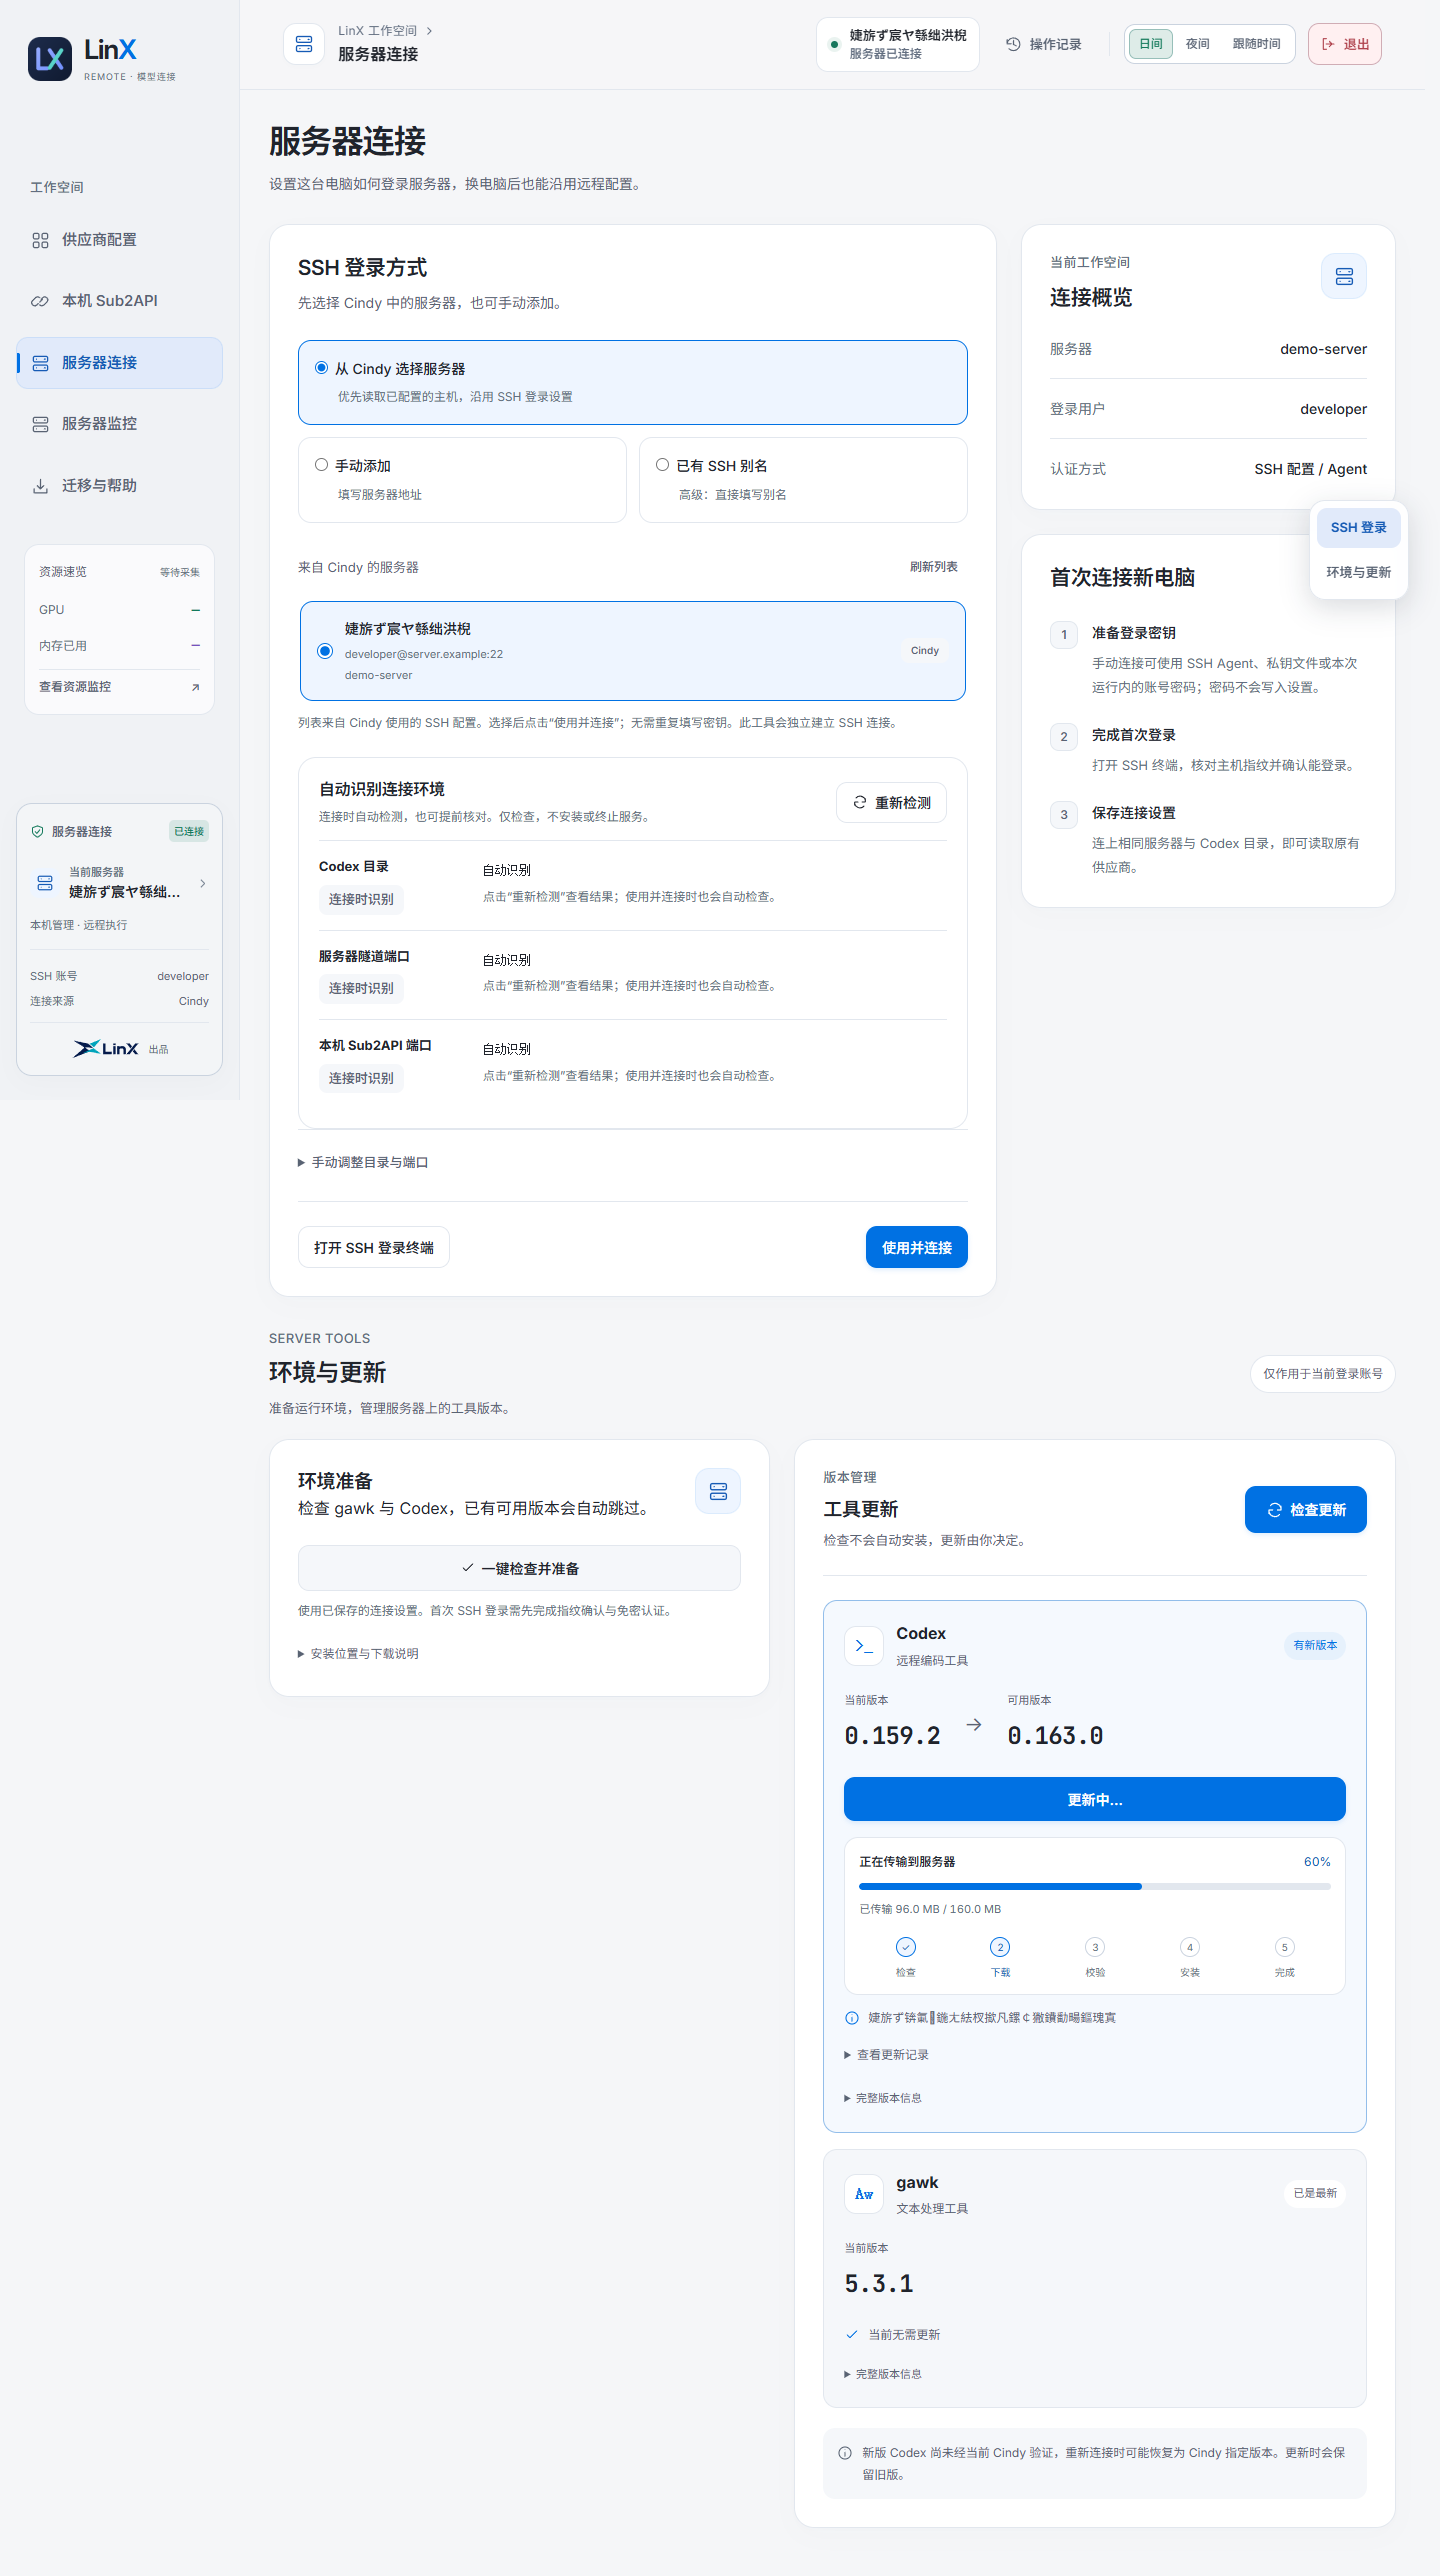
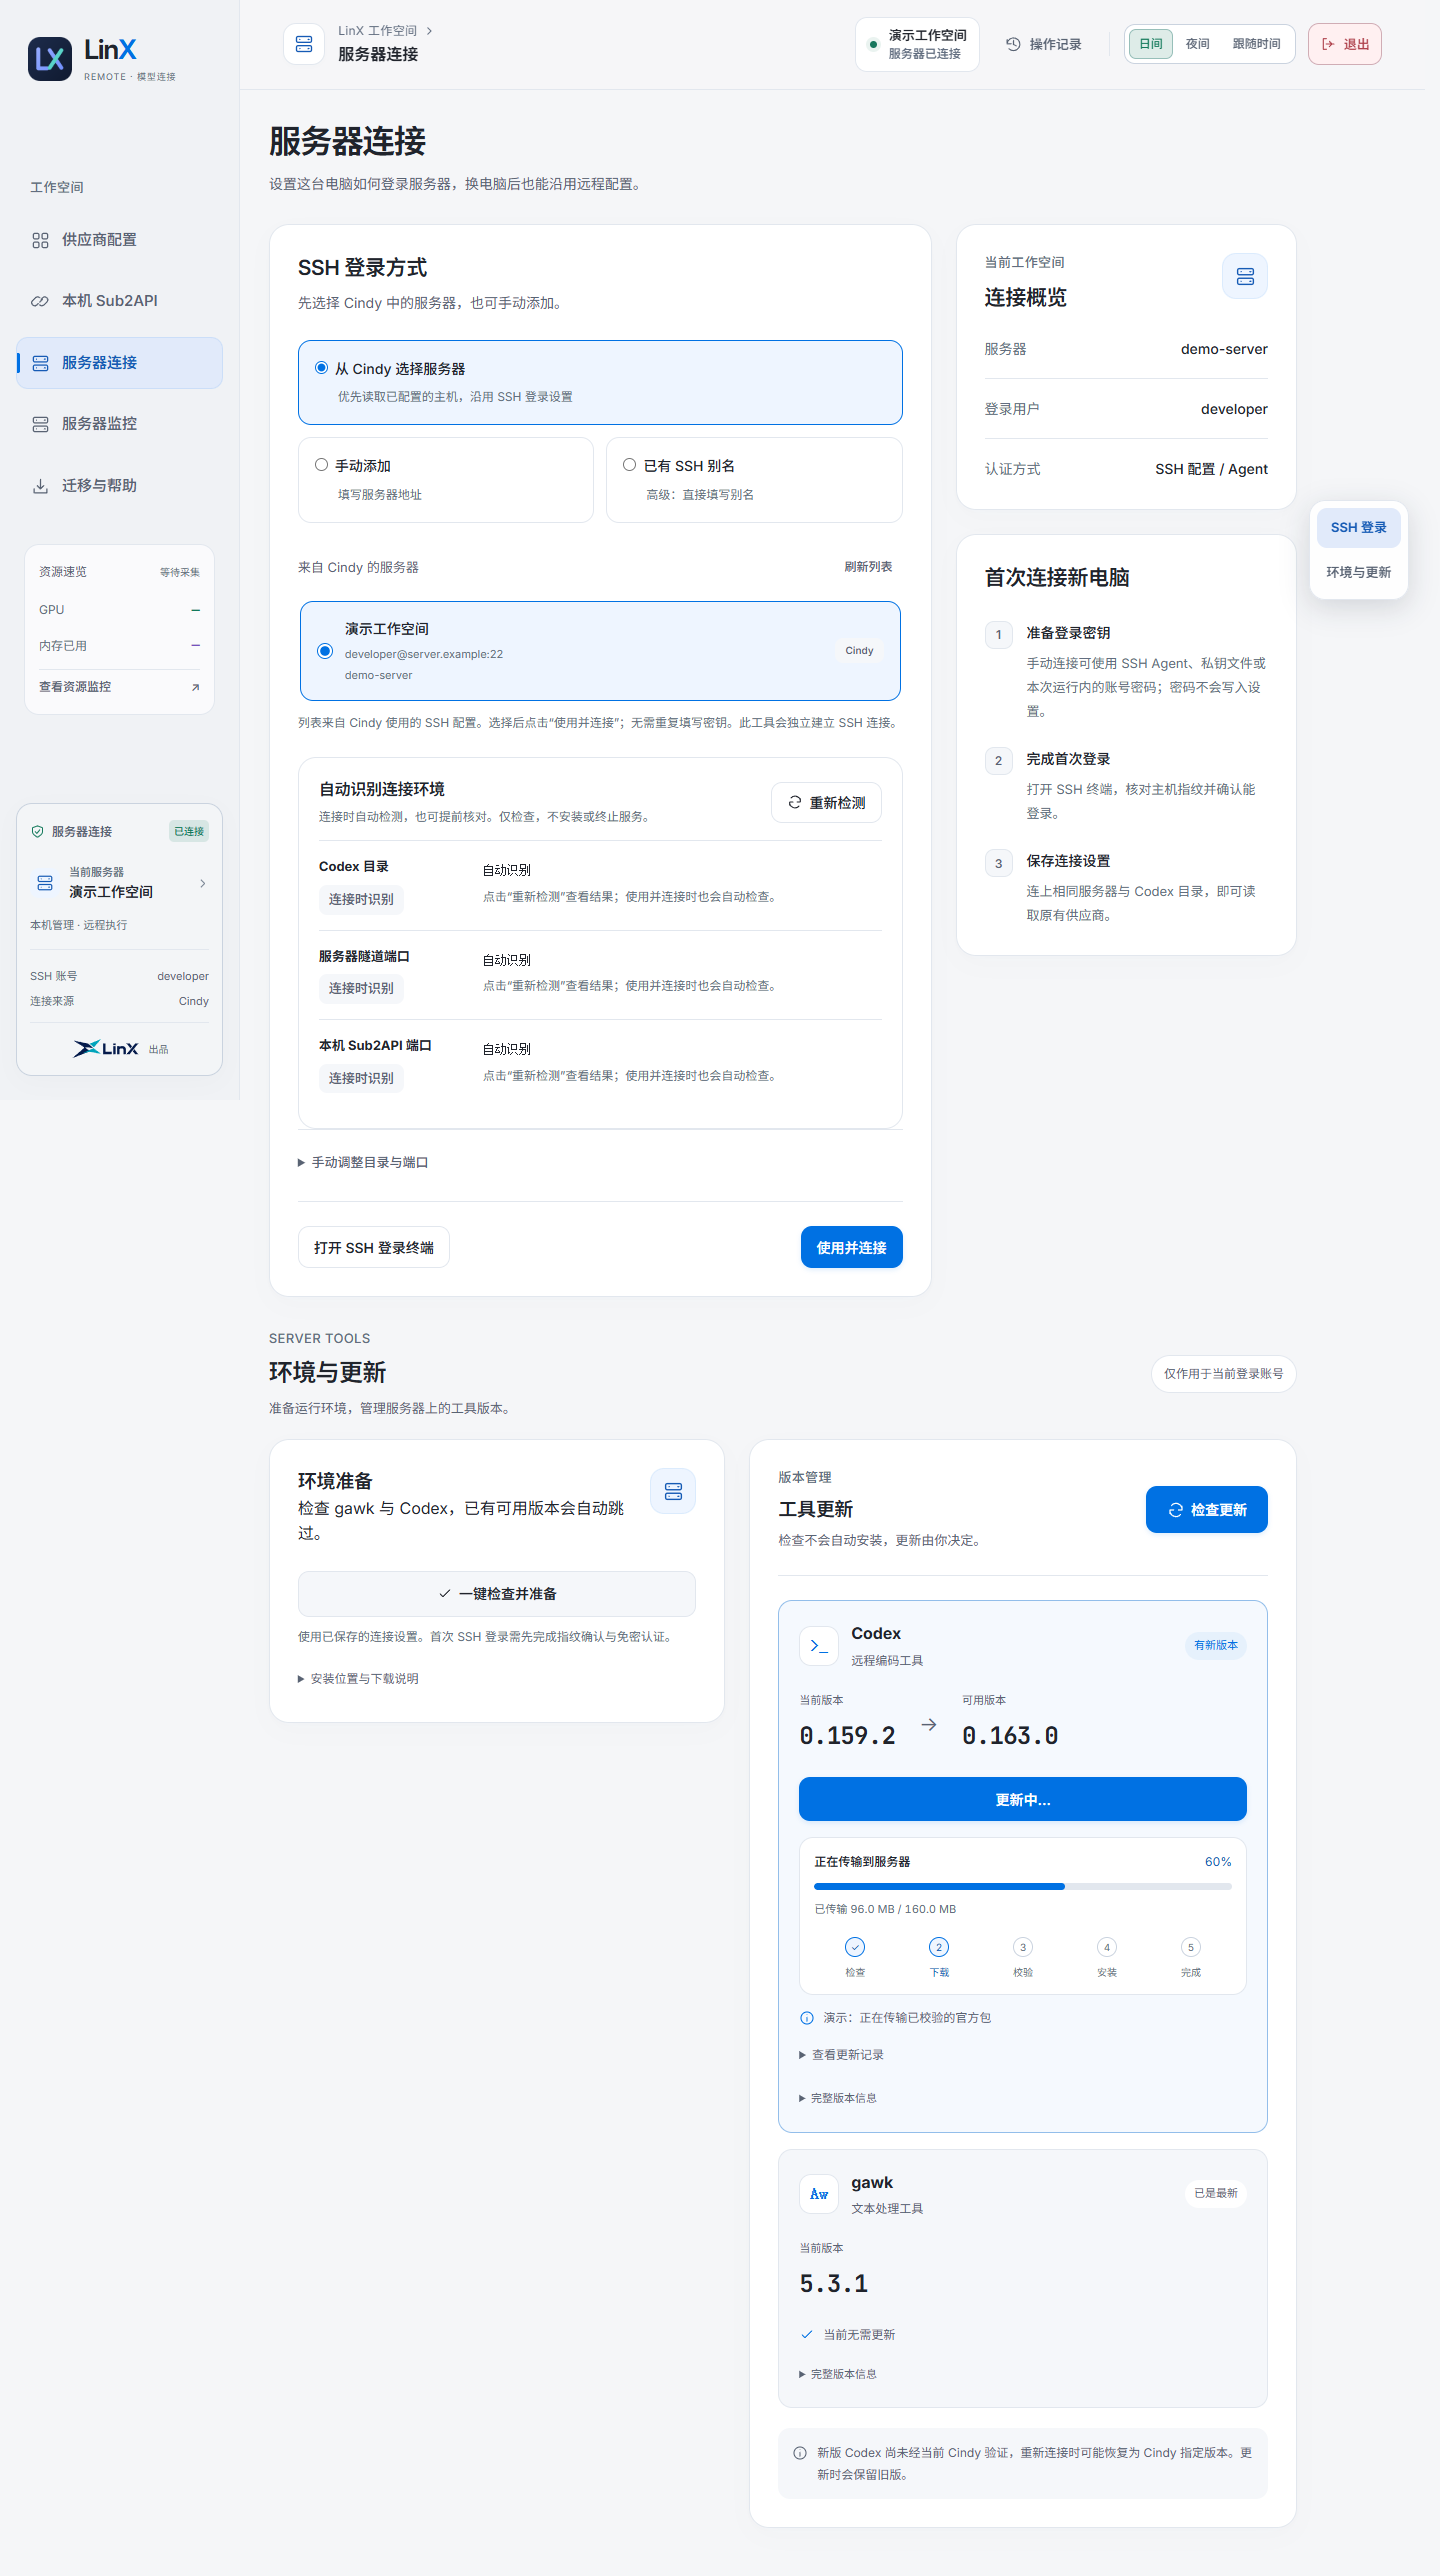
Fix demo text, navigation spacing and platform checks
Assisted-by: Cindy (https://cindy.app)

diff --git a/manager_ui.html b/manager_ui.html
@@ -260,7 +260,7 @@ html[data-theme=dark] .linx-maker-lockup .linx-maker-white{display:block}
 :root{--text-xs:13px;--text-sm:14px;--text-base:16px;--text-lg:18px;--text-section:21px;--metric-blue:#126ac4;--metric-purple:#7651bd;--metric-green:#13795b;--metric-warn:#9a620b;--metric-danger:#c43849}
 html[data-theme=dark]{--metric-blue:#72b5ff;--metric-purple:#c2a0ff;--metric-green:#62d5b0;--metric-warn:#f1c36c;--metric-danger:#ff8b98}
 .content{max-width:none;margin:0;padding:32px clamp(24px,2vw,40px) 48px}
-.content:has(.monitor-page){padding-right:128px}
+.content:has(.section-rail){padding-right:128px}
 .section-rail{width:100px;right:16px;padding:7px}
 .section-rail button{padding:10px 7px;font-size:13px}
 body{font-size:16px}.nav button{font-size:15px}.navlabel{font-size:13px}
@@ -283,10 +283,10 @@ button,.field input,.field select{font-size:14px}.field small,.notice,.info-list
 .monitor-bar i[data-level=warning]{background:var(--metric-warn)}
 .monitor-bar i[data-level=critical]{background:var(--metric-danger)}
 .activefacts>div:nth-child(1) dd{color:var(--metric-blue)}.activefacts>div:nth-child(2) dd{color:var(--metric-purple)}
-@media(max-width:1180px){.content{padding:28px 24px 40px}.content:has(.monitor-page){padding-right:116px}.section-rail{right:10px;width:94px}.monitor-summary b{font-size:23px}}
+@media(max-width:1180px){.content{padding:28px 24px 40px}.content:has(.section-rail){padding-right:116px}.section-rail{right:10px;width:94px}.monitor-summary b{font-size:23px}}
 @media(max-width:980px){.nav button{font-size:14px}.monitor-summary{gap:12px}.monitor-summary article{padding:18px 16px}.monitor-summary b{font-size:21px}}
-@media(max-width:640px){body{font-size:15px}.content,.content:has(.monitor-page){padding:24px 18px 90px}.nav button{font-size:12px}.heading h1{font-size:28px}.heading p{font-size:14px}.section-rail{width:auto;right:10px;left:10px}.section-rail button{font-size:13px;padding:9px 12px}.monitor-summary b{font-size:25px}.monitor-table-scroll table{font-size:13px}.monitor-table-scroll th{font-size:12px}.topbar .connection{padding:7px 8px;gap:7px}.topbar #header-server{font-size:12px}.topbar #connectiontext{font-size:11px}}
-@media(max-width:360px){.content,.content:has(.monitor-page){padding-left:14px;padding-right:14px}.topbar .header-tools{gap:5px}.topbar .header-action{width:30px;padding:6px}}
+@media(max-width:640px){body{font-size:15px}.content,.content:has(.section-rail){padding:24px 18px 90px}.nav button{font-size:12px}.heading h1{font-size:28px}.heading p{font-size:14px}.section-rail{width:auto;right:10px;left:10px}.section-rail button{font-size:13px;padding:9px 12px}.monitor-summary b{font-size:25px}.monitor-table-scroll table{font-size:13px}.monitor-table-scroll th{font-size:12px}.topbar .connection{padding:7px 8px;gap:7px}.topbar #header-server{font-size:12px}.topbar #connectiontext{font-size:11px}}
+@media(max-width:360px){.content,.content:has(.section-rail){padding-left:14px;padding-right:14px}.topbar .header-tools{gap:5px}.topbar .header-action{width:30px;padding:6px}}
 
 /* Balanced sidebar, grouped theme selection and clear resource identities. */
 .sidebar{padding-top:34px;padding-bottom:24px}

diff --git a/tools/screenshots.py b/tools/screenshots.py
@@ -11,12 +11,12 @@ import manager
 MODELS = ['gpt-5.4', 'gpt-5.4-mini', 'gpt-5.3-codex', 'deepseek-v3.2', 'deepseek-reasoner', 'custom-research-model']
 SETTINGS = dict(manager.DEFAULT, alias='demo-server', user='developer',
                 cindy_host='demo-server', home='/home/developer/.xdt-server/v1/codex-home')
-HOSTS = {'hosts':[{'id':'demo-server', 'name':'婕旂ず宸ヤ綔绌洪棿', 'hostname':'server.example',
+HOSTS = {'hosts':[{'id':'demo-server', 'name':'演示工作空间', 'hostname':'server.example',
                    'user':'developer', 'port':22, 'managed_by_cindy':True}], 'warnings':[]}
 PROFILES = [
     dict(id='demo-direct', name='Demo Relay', mode='direct', base_url='https://api.example/v1',
          model=MODELS[0], selected_models=MODELS, has_key=True, context_window=262144, context_windows={m:262144 for m in MODELS}),
-    dict(id='demo-tunnel', name='鏈満 Sub2API', mode='tunnel', base_url='http://127.0.0.1:18765/v1',
+    dict(id='demo-tunnel', name='本机 Sub2API', mode='tunnel', base_url='http://127.0.0.1:18765/v1',
          model=MODELS[0], selected_models=MODELS[:3], has_key=True, context_window=262144, context_windows={m:262144 for m in MODELS[:3]}),
 ]
 UPDATES = dict(state='done', items=[
@@ -111,12 +111,15 @@ def main():
         page.wait_for_function('S.loaded && !S.busy')
         page.evaluate('clearToast()')
         page.evaluate('document.fonts.ready')
+        assert page.locator('#header-server').inner_text() == '演示工作空间'
+        assert page.locator('#servermini').inner_text() == '演示工作空间'
+        assert '本机 Sub2API' in page.locator('#content').inner_text()
         for mode in ('light', 'dark'):
             page.evaluate('(m)=>{appearanceMode=m;applyAppearance(m)}', mode)
             page.wait_for_timeout(400)
             page.screenshot(path=str(assets/('overview-'+mode+'.png')), full_page=True, animations='disabled')
         page.evaluate("appearanceMode='light';applyAppearance('light');S.page='connection';render()")
-        page.evaluate("S.environment={tool:'Codex',state:'running',events:[{phase:'download',transfer:true,message:'婕旂ず锛氭鍦ㄤ紶杈撳凡鏍￠獙鐨勫畼鏂瑰寘',downloaded_bytes:96*1048576,total_bytes:160*1048576}]};renderEnvironment()")
+        page.evaluate("S.environment={tool:'Codex',state:'running',events:[{phase:'download',transfer:true,message:'演示：正在传输已校验的官方包',downloaded_bytes:96*1048576,total_bytes:160*1048576}]};renderEnvironment()")
         page.screenshot(path=str(assets/'connection-updates.png'), full_page=True, animations='disabled')
         page.evaluate('S.monitor=' + json.dumps(MONITOR, ensure_ascii=False) + ";S.page='monitor';render()")
         page.wait_for_timeout(300)
@@ -138,9 +141,11 @@ def main():
         page.screenshot(path=str(assets/'mobile.png'), full_page=True, animations='disabled')
         for width in (320, 390, 768, 1024, 1440, 1920):
             page.set_viewport_size({'width':width, 'height':900})
-            for section in ('providers', 'connection', 'tunnel', 'help'):
+            for section in ('providers', 'connection', 'tunnel', 'help', 'monitor'):
                 page.evaluate('(p)=>{S.page=p;render()}', section)
                 assert page.evaluate('document.documentElement.scrollWidth <= innerWidth+1'), (width, section)
+                if width > 640 and page.locator('.section-rail').count():
+                    assert page.evaluate("()=>{const nav=document.querySelector('.section-rail').getBoundingClientRect(),content=document.querySelector('#content'),edge=content.getBoundingClientRect().right-parseFloat(getComputedStyle(content).paddingRight);return nav.left-edge>=8}"), (width, section, 'navigation overlaps content')
         # Verify a blank public install stays on local connection setup, without SSH.
         empty = True
         calls.clear()

diff --git a/tests/test_connection_detection.py b/tests/test_connection_detection.py
@@ -53,10 +53,34 @@ class RemoteDetection(unittest.TestCase):
 
     def test_open_ssh_terminal_uses_a_defined_batch_argument(self):
         with patch.object(manager, "ssh_base", return_value=(["ssh"], "developer@server.example")) as base, \
-             patch.object(manager.subprocess, "Popen") as popen:
+             patch.object(manager.subprocess, "Popen") as popen, \
+             patch.object(manager.os, 'name', 'nt'), \
+             patch.object(manager.subprocess, 'CREATE_NEW_CONSOLE', 16, create=True):
             manager.open_ssh_terminal(dict(manager.DEFAULT, host="server.example", user="developer"))
         base.assert_called_once()
-        popen.assert_called_once()
+        popen.assert_called_once_with(['ssh', 'developer@server.example'], creationflags=16)
+
+    def test_linux_ssh_terminal_returns_command_without_launching(self):
+        with patch.object(manager, 'ssh_base', return_value=(['ssh'], 'developer@server.example')), \
+             patch.object(manager.os, 'name', 'posix'), \
+             patch.object(manager.sys, 'platform', 'linux'), \
+             patch.object(manager.subprocess, 'Popen') as popen:
+            result=manager.open_ssh_terminal(dict(manager.DEFAULT))
+        self.assertEqual(result, 'ssh developer@server.example')
+        popen.assert_not_called()
+
+    def test_mac_ssh_terminal_opens_script_without_running_ssh(self):
+        with tempfile.TemporaryDirectory() as tmp:
+            state=Path(tmp)
+            with patch.object(manager, 'STATE', state), \
+                 patch.object(manager, 'ssh_base', return_value=(['ssh'], 'developer@server.example')), \
+                 patch.object(manager.os, 'name', 'posix'), \
+                 patch.object(manager.sys, 'platform', 'darwin'), \
+                 patch.object(manager.subprocess, 'run') as run:
+                manager.open_ssh_terminal(dict(manager.DEFAULT))
+            script=next(state.glob('ssh-login-*.command'))
+            self.assertIn('exec ssh developer@server.example', script.read_text())
+            run.assert_called_once_with(['/usr/bin/open','-a','Terminal',str(script)],check=True)
 
     def test_password_detection_uses_accept_new_without_batch_mode(self):
         settings = dict(manager.DEFAULT, connection_source='manual', host='server.example', user='developer', auth_method='password')

diff --git a/CHANGELOG.md b/CHANGELOG.md
@@ -1,5 +1,11 @@
 # 更新记录
 
+## 1.8.7 - 2026-11-11
+
+- 修正公开演示数据的中文乱码，重新生成 README 截图，并核对服务器与供应商名称。
+- 连接页与监控页统一为右侧分区导航预留空间，避免遮挡正文；增加多宽度布局检查。
+- 修正跨平台测试将 Windows 终端启动方式误用于 Linux／macOS 的问题，分别测试各系统分支且不启动真实终端。
+
 ## 1.8.6 - 2026-11-10
 
 - 离线打包 Inter、完整 Noto Sans SC、JetBrains Mono 及字体许可证，加入自适应 LinX 出品标识。
